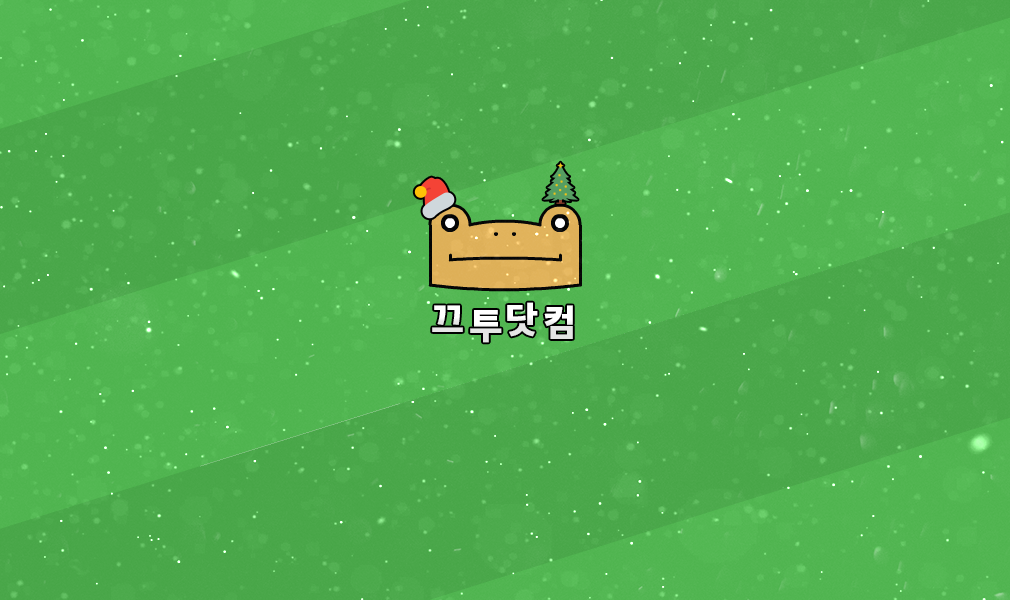
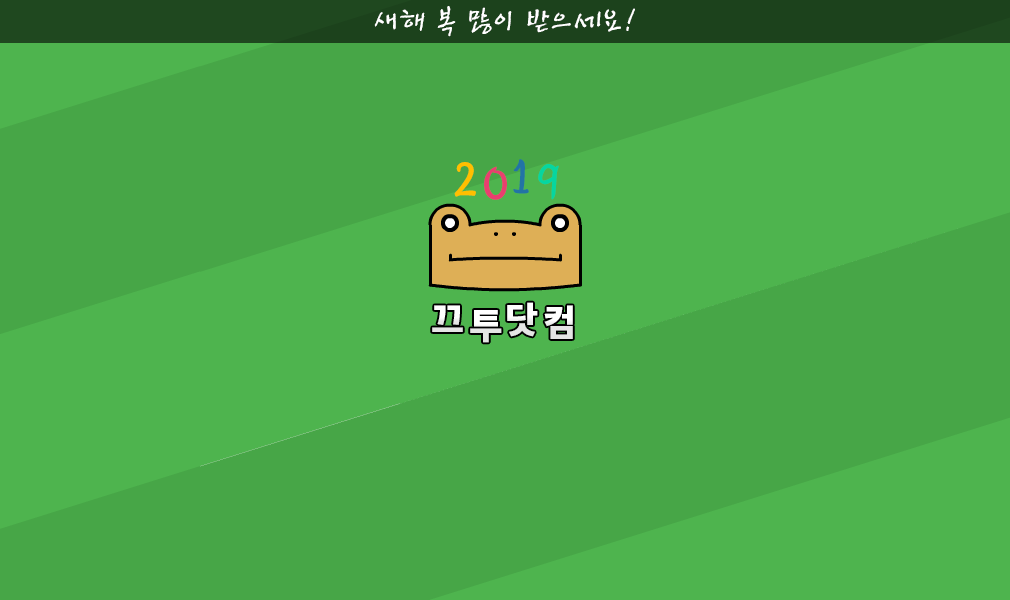
끄투닷컴 1.0.2.4
끄투닷컴 이벤트성 인트로 이미지가 변경되었습니다
페이지 하단에 이미지 라이센스를 표기하기 위한 항목을 만들었습니다
쓰지 않는 기능이 모바일 화면에서 보이지 않도록 변경하였습니다

diff --git a/Server/Web/public/global_notice.html b/Server/Web/public/global_notice.html
@@ -1,1 +1,1 @@
-메리 크리스마스!
+새해 복 많이 받으세요!
